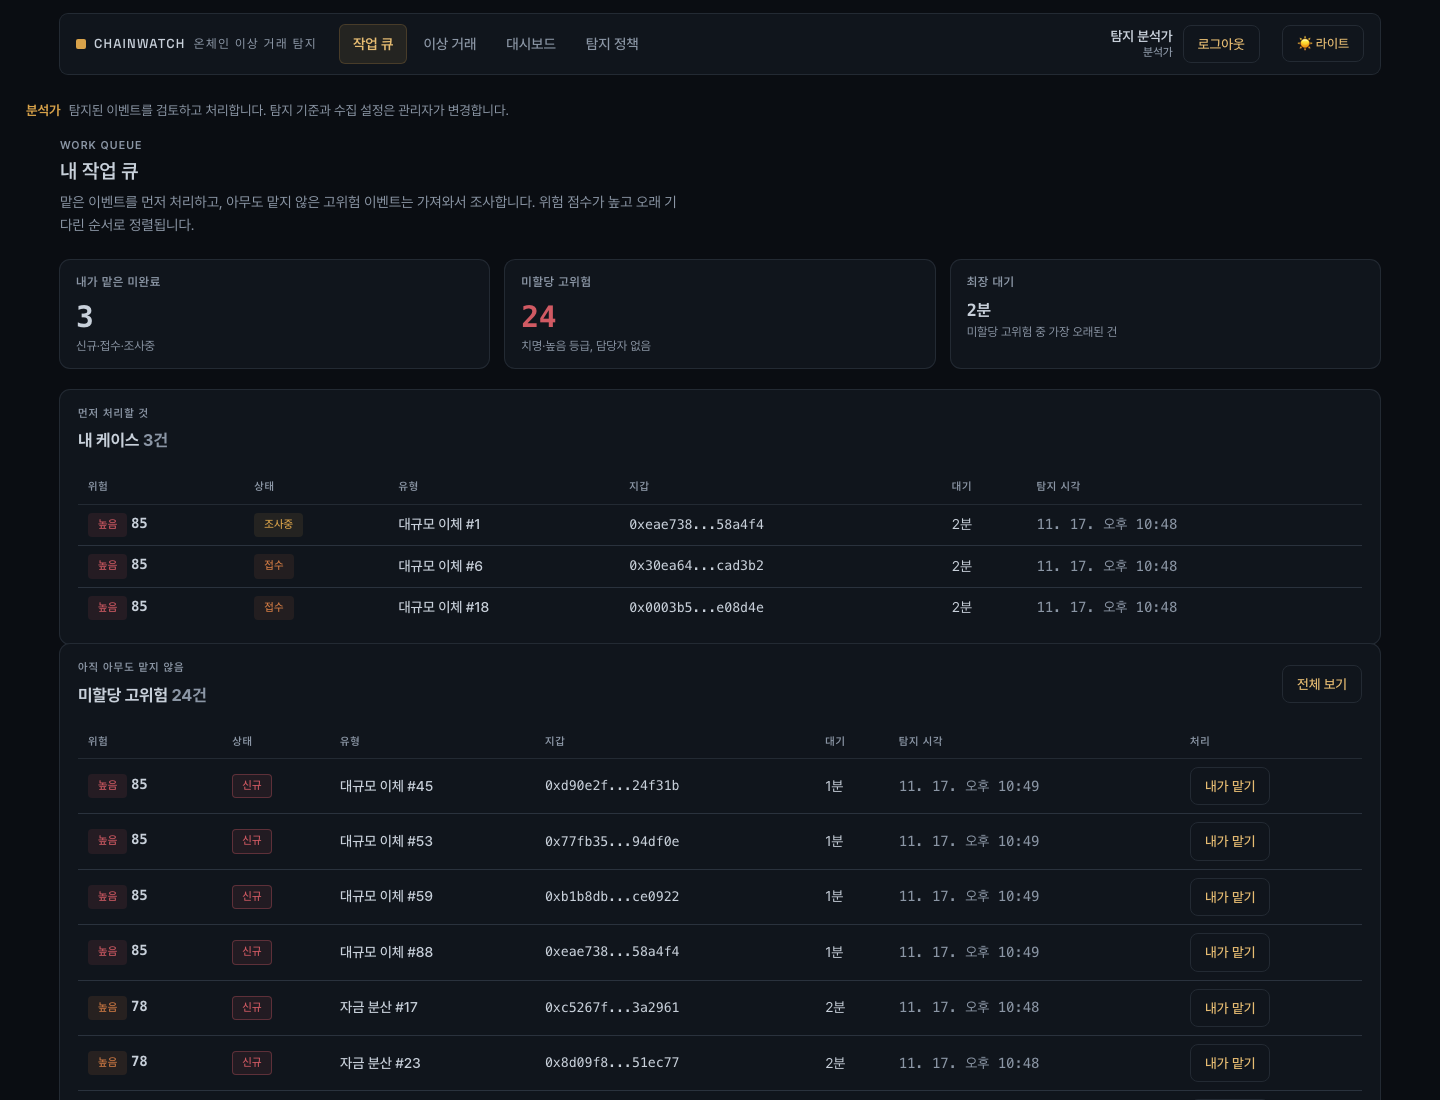
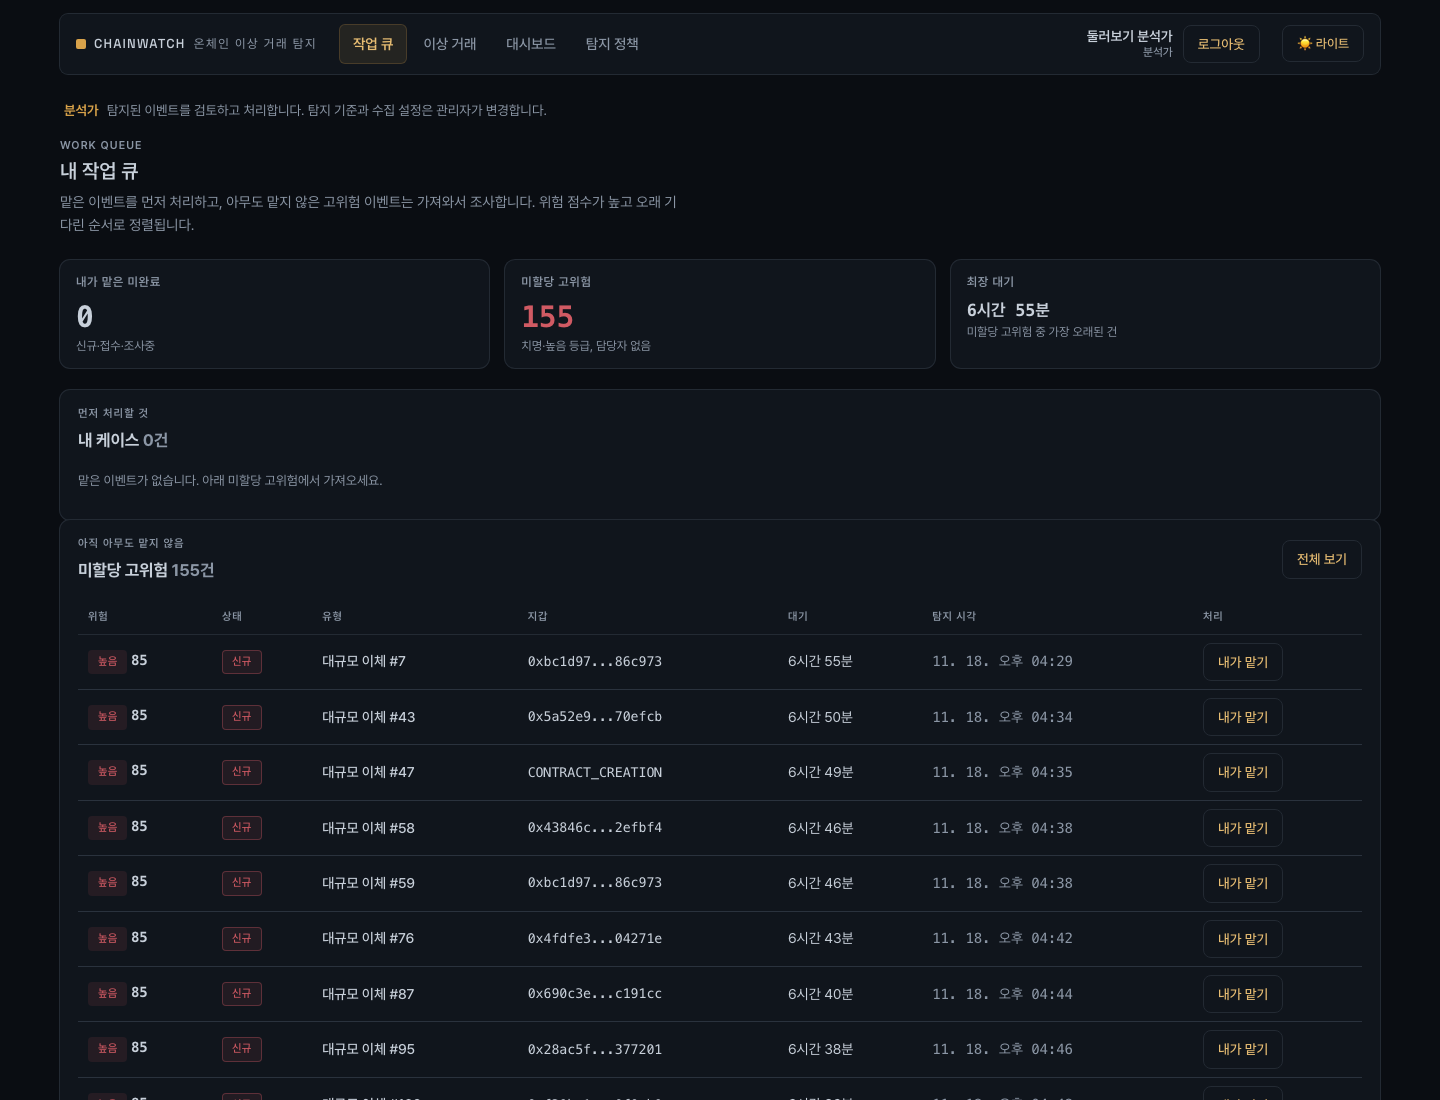
docs: README 스크린샷을 배포 서비스 화면으로 다시 캡처

diff --git a/README.md b/README.md
@@ -67,7 +67,7 @@ ChainWatch는 이더리움 블록과 트랜잭션을 수집하고, 규칙 기반
 
 *수집 지연, 처리량, 탐지율, 미처리 backlog와 수집 → 탐지 → 알림 단계별 상태, 위험도 × 처리 상태 매트릭스를 한 화면에서 봅니다.*
 
-> 위 화면은 배포 환경과 같은 단독 실행 구성(Kafka·Redis·AI 분석 없음)을 로컬에 띄우고 이더리움 메인넷 블록을 수집해 캡처했습니다.
+> 위 화면은 배포된 서비스(단독 실행 구성: Kafka·Redis·AI 분석 없음)가 이더리움 메인넷 블록을 실시간 수집하는 상태에서 분석가 둘러보기 계정으로 캡처했습니다. 관리자 화면만 같은 구성을 로컬에 띄워 캡처했습니다.
 
 ## 시스템 구조
 
